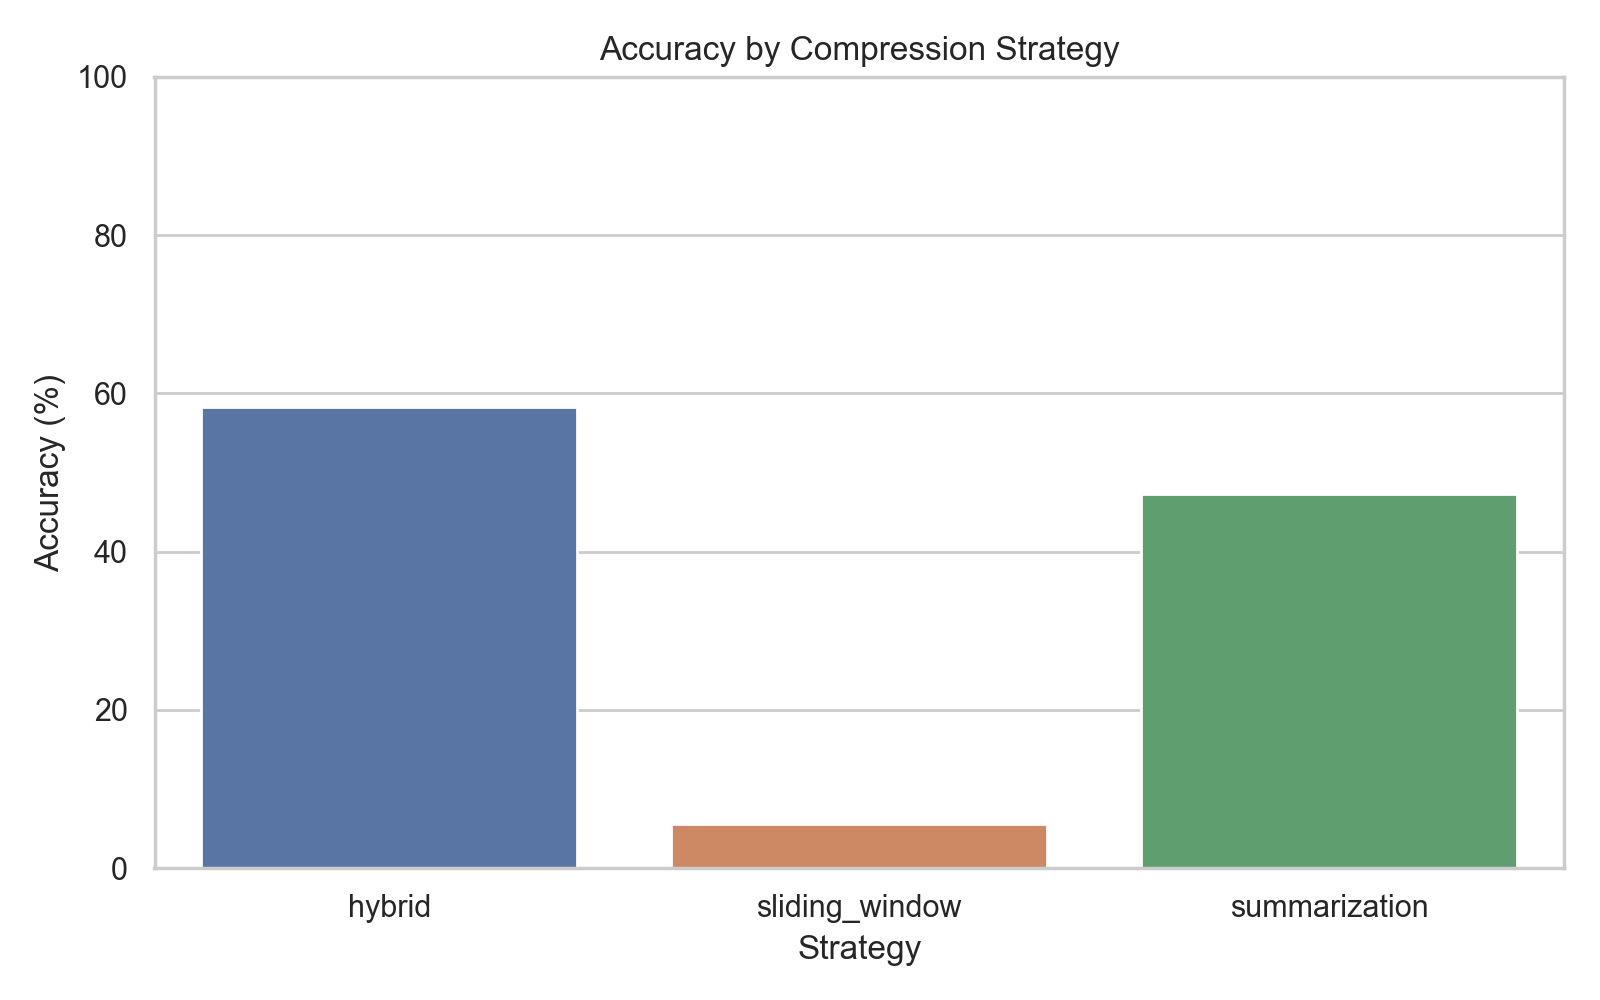
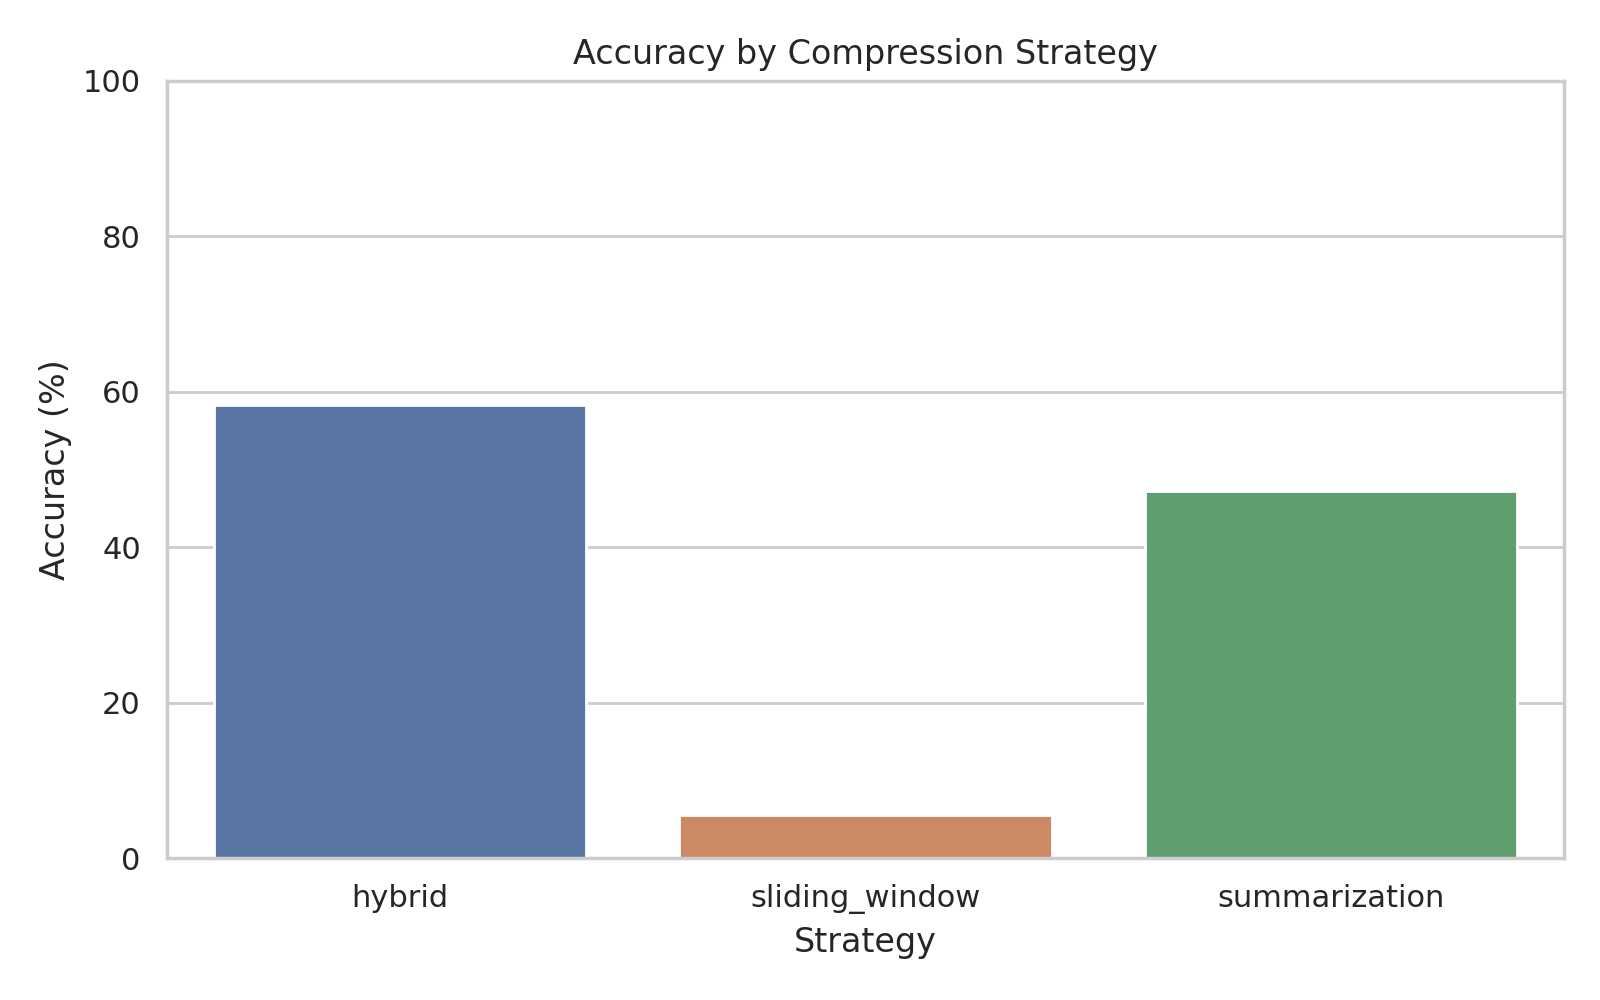
chore: replace make-based workflow with direct docker build and run instructions

Changed region(s): [[0.0, 0.031, 0.9688, 0.961], [0.9375, 0.682, 0.9688, 0.713], [0.9375, 0.527, 0.9688, 0.558]]

diff --git a/README.md b/README.md
@@ -6,7 +6,7 @@ This repo tests long-context compression for multi-turn conversations and shows 
 2. Summarization baseline
 3. Hybrid strategy (summary memory + selected anchors + recent verbatim turns)
 
-The full pipeline is reproducible with Docker-backed `make` commands.
+The full pipeline is reproducible with a standard Docker build and direct `docker run` commands.
 
 ## Why I Picked This Assignment
 
@@ -20,7 +20,7 @@ The assignment also suited the way I like to work: test multiple compressor desi
 
 - Used VS Code agent workflow over Cursor because I am more familiar with it and it keeps costs down.
 - Used Gemini-backed calls across generation and eval for a simple, consistent setup.
-- Used Docker + Make so the project can be run on one machine without unusual setup.
+- Used Docker so the project can be run on one machine without unusual setup.
 
 ### Benchmark design choices
 
@@ -184,23 +184,19 @@ If I had another week, I would prioritise evaluation robustness over adding more
 ### Prerequisites
 
 - Docker Desktop (or Docker Engine)
-- GNU Make (`make`)
 - API credentials via `.env` or host environment variables
 
 ### API key setup
 
-Option 1 (recommended):
+Option 1 (recommended): create a `.env` file in the repo root with at least one key:
 
 ```bash
-make init-env
+GOOGLE_API_KEY=...
+# or
+ANTHROPIC_API_KEY=...
 ```
 
-Then set at least one key in `.env`:
-
-- `GOOGLE_API_KEY=...`
-- `ANTHROPIC_API_KEY=...`
-
-Option 2 (host env):
+Option 2: set host environment variables before running Docker:
 
 ```powershell
 $env:GOOGLE_API_KEY="your_key_here"
@@ -209,51 +205,52 @@ $env:GOOGLE_API_KEY="your_key_here"
 ### Quick run
 
 ```bash
-make run
+docker build -t lec-eval:latest .
+docker run --rm --env-file .env -e GOOGLE_API_KEY -e ANTHROPIC_API_KEY -v "${PWD}:/work" -w /work lec-eval:latest
 ```
 
-Default `make run` behaviour:
-
-1. Uses existing `results/eval_results.jsonl`
-2. Regenerates plots only (`plots/*`)
-3. Does not regenerate dataset/eval/summaries/findings unless requested
+By default, the image runs `python -m src.report`, so this command regenerates plots from the current results.
 
 ### Regeneration options
 
 Regenerate summaries and findings:
 
 ```bash
-make run REGEN_SUMMARIES=1 REGEN_FINDINGS=1
+docker run --rm --env-file .env -e GOOGLE_API_KEY -e ANTHROPIC_API_KEY -v "${PWD}:/work" -w /work lec-eval:latest python -m src.report --regen-summaries --regen-findings
 ```
 
 Regenerate eval (with quick bounded run args example):
 
 ```bash
-make run REGEN_EVAL=1 EVAL_ARGS="--max-conversations 5 --max-combinations 30"
+docker run --rm --env-file .env -e GOOGLE_API_KEY -e ANTHROPIC_API_KEY -v "${PWD}:/work" -w /work lec-eval:latest python -m src.eval --max-conversations 5 --max-combinations 30
 ```
 
 Regenerate dataset and eval:
 
 ```bash
-make run REGEN_DATA=1 REGEN_EVAL=1
+docker run --rm --env-file .env -e GOOGLE_API_KEY -e ANTHROPIC_API_KEY -v "${PWD}:/work" -w /work lec-eval:latest python -m src.dataset
+docker run --rm --env-file .env -e GOOGLE_API_KEY -e ANTHROPIC_API_KEY -v "${PWD}:/work" -w /work lec-eval:latest python -m src.eval
 ```
 
 Deterministic extraction mode from existing source:
 
 ```bash
-make run REGEN_DATA=1 REGEN_EVAL=1 DATA_ARGS="--extract-from-source --source data/conversations.jsonl --n 36"
+docker run --rm --env-file .env -e GOOGLE_API_KEY -e ANTHROPIC_API_KEY -v "${PWD}:/work" -w /work lec-eval:latest python -m src.dataset --extract-from-source --source data/conversations.jsonl --n 36
 ```
 
-Full rebuild convenience target:
+Full rebuild sequence:
 
 ```bash
-make run-regen
+docker build -t lec-eval:latest .
+docker run --rm --env-file .env -e GOOGLE_API_KEY -e ANTHROPIC_API_KEY -v "${PWD}:/work" -w /work lec-eval:latest python -m src.dataset --extract-from-source --source data/conversations.jsonl --n 36
+docker run --rm --env-file .env -e GOOGLE_API_KEY -e ANTHROPIC_API_KEY -v "${PWD}:/work" -w /work lec-eval:latest python -m src.eval
+docker run --rm --env-file .env -e GOOGLE_API_KEY -e ANTHROPIC_API_KEY -v "${PWD}:/work" -w /work lec-eval:latest python -m src.report --regen-summaries --regen-findings
 ```
 
 ### Discoverability
 
 ```bash
-make help
+docker run --rm --env-file .env -e GOOGLE_API_KEY -e ANTHROPIC_API_KEY -v "${PWD}:/work" -w /work lec-eval:latest python -m src.report --help
 ```
 
 ### Generated outputs
@@ -268,4 +265,4 @@ make help
 
 ### Notes for Windows
 
-If `make` is unavailable in PowerShell, install GNU Make (for example via Chocolatey) or run via WSL/Git Bash.
+Use PowerShell or Git Bash for the `docker run` commands. If you prefer a shell with POSIX-style variable expansion, use Git Bash or WSL.
